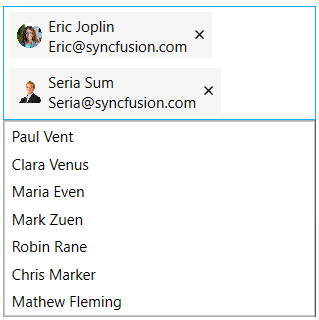
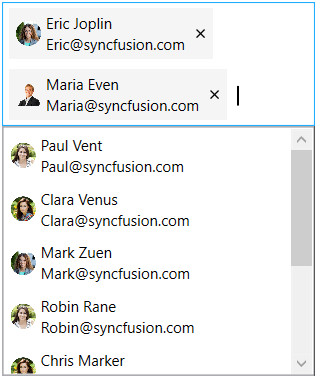
WPF-1042215: Updated the content of the Documentation

Changed region(s): [[0.0, 0.0, 0.9968, 1.0], [0.7405, 0.2188, 0.769, 0.2812]]

diff --git a/wpf/Autocomplete/Single-and-multiple-Selection.md b/wpf/Autocomplete/Single-and-multiple-Selection.md
@@ -61,7 +61,7 @@ textBoxExt.MultiSelectMode = MultiSelectMode.Token;
 ![Token Representation](Single_and_multiple_selection_images/Token.png)
 
 
-### Customization of Tokens
+### Customization of tokens using TokenItem style
 
 The token can be customized by overriding the default style targeting the `TokenItem` class.
 
@@ -115,15 +115,31 @@ The token can be customized by overriding the default style targeting the `Token
 
 ![Token_Customization](Single_and_multiple_selection_images/Token_Customization.png)
 
-### Customizing Token Content Using TokenItemTemplate
+### Customization of tokens using TokenItemTemplate
 
 The `TokenItemTemplate` property allows you to customize the content displayed within a token when the `MultiSelectMode` is set to Token. This property accepts a DataTemplate and enables rendering custom content such as images, icons, and formatted text instead of the default token text representation.
 
-The following example shows how to display the employee name and email address in a token.
+The `TokenItemTemplate` property can also be used to maintain a consistent appearance between suggestion items and generated tokens by using the same DataTemplate for both [AutoCompleteItemTemplate](https://help.syncfusion.com/cr/wpf/Syncfusion.Windows.Controls.Input.SfTextBoxExt.html#Syncfusion_Windows_Controls_Input_SfTextBoxExt_AutoCompleteItemTemplate) and `TokenItemTemplate`.
 
 {% tabs %}
 
 {% highlight xaml %}
+
+<DataTemplate x:Key="EmployeeTemplate">
+    <StackPanel Orientation="Horizontal">
+        <Image Width="20"
+               Height="20"
+               Source="{Binding Image}" />
+        <StackPanel Orientation="Vertical">
+            <TextBlock
+                Margin="4,2,4,0"
+                Text="{Binding Name}" />
+            <TextBlock
+                Margin="4,1,2,2"
+                Text="{Binding Email}" />
+        </StackPanel>
+    </StackPanel>
+</DataTemplate>
 
 <editors:SfTextBoxExt x:Name="textBoxExt"
                       Width="250" 
@@ -132,23 +148,9 @@ The following example shows how to display the employee name and email address i
                       AutoCompleteMode="Suggest"
                       TokensWrapMode="Wrap"
                       EnableAutoSize="True"
-                      AutoCompleteSource="{Binding Employees}">
-    <editors:SfTextBoxExt.TokenItemTemplate>
-        <DataTemplate>
-            <StackPanel Orientation="Horizontal" VerticalAlignment="Center">
-                <Image Width="20"
-                       Height="20"
-                       Source="{Binding Image}" />
-                <StackPanel Orientation="Vertical" Margin="5,0,0,0">
-                    <TextBlock VerticalAlignment="Center"
-                               Text="{Binding Name}" />
-                    <TextBlock VerticalAlignment="Center"
-                               Text="{Binding Email}" />
-                </StackPanel>
-            </StackPanel>
-        </DataTemplate>
-    </editors:SfTextBoxExt.TokenItemTemplate>
-</editors:SfTextBoxExt>                    
+                      AutoCompleteSource="{Binding Employees}"
+                      TokenItemTemplate="{StaticResource EmployeeTemplate}"
+                      AutoCompleteItemTemplate="{StaticResource EmployeeTemplate}"/>                   
 
 {% endhighlight %}
 
@@ -156,9 +158,9 @@ The following example shows how to display the employee name and email address i
 
 ![Customize Token Content Using TokenItemTemplate](Single_and_multiple_selection_images/TokenItemTemplate_Customization.png)
 
-### Customizing Token Appearance Using TokenItemContainerStyle
+### Customization of tokens using TokenItemContainerStyle
 
-The `TokenItemContainerStyle` property allows you to customize the appearance of generated token items without overriding the default TokenItem control template.
+The `TokenItemContainerStyle` property allows you to customize the appearance and behavior of the generated token items without overriding the default `TokenItem` control template. Since `TokenItem` derives from `ContentControl`, you can customize various properties such as `Background`, `Foreground`, `BorderThickness`, `BorderBrush`, `ContentTemplate`, and `ContentTemplateSelector` to control the visual representation of tokens while retaining the default token structure and functionality.
 
 {% tabs %}
 
@@ -185,44 +187,6 @@ The `TokenItemContainerStyle` property allows you to customize the appearance of
 {% endtabs %}
 
 ![Customize Token Content Using TokenItemContainerStyle](Single_and_multiple_selection_images/TokenItemContainerStyle_Customization.png)
-
-
-### Achieve a consistent appearance between suggestion items and tokens
-
-The `TokenItemTemplate` property can be used to customize token content so that it matches the appearance of the items displayed in the suggestion drop-down. This helps maintain a consistent visual representation between the selected tokens and the corresponding suggestion items.
-
-{% tabs %}
-
-{% highlight xaml %}
-
-<DataTemplate x:Key="EmployeeTemplate">
-    <TextBlock Width="100" 
-               Background="Beige"
-               Text="{Binding Name}"
-               VerticalAlignment="Center"
-               FontStyle="Italic"
-               FontWeight="Bold"
-               Foreground="Black"/>
-</DataTemplate>
-
-<Grid>
-    <editors:SfTextBoxExt x:Name="textBoxExt"
-                      Width="250" 
-                      Height="30"
-                      SearchItemPath="Name"
-                      AutoCompleteMode="Suggest"
-                      TokensWrapMode="Wrap"
-                      EnableAutoSize="True"
-                      AutoCompleteSource="{Binding Employees}"
-                      AutoCompleteItemTemplate="{StaticResource EmployeeTemplate}"
-                      TokenItemTemplate="{StaticResource EmployeeTemplate}" />
-</Grid>
-
-{% endhighlight %}
-
-{% endtabs %}
-
-![Match Suggestion Item and Token Appearance](Single_and_multiple_selection_images\TokenItem-SuggestionItem_Appearance.png.png)
 
 N> The `TokenItemTemplate` property is applicable only when `MultiSelectMode` is set to `Token`.
 
